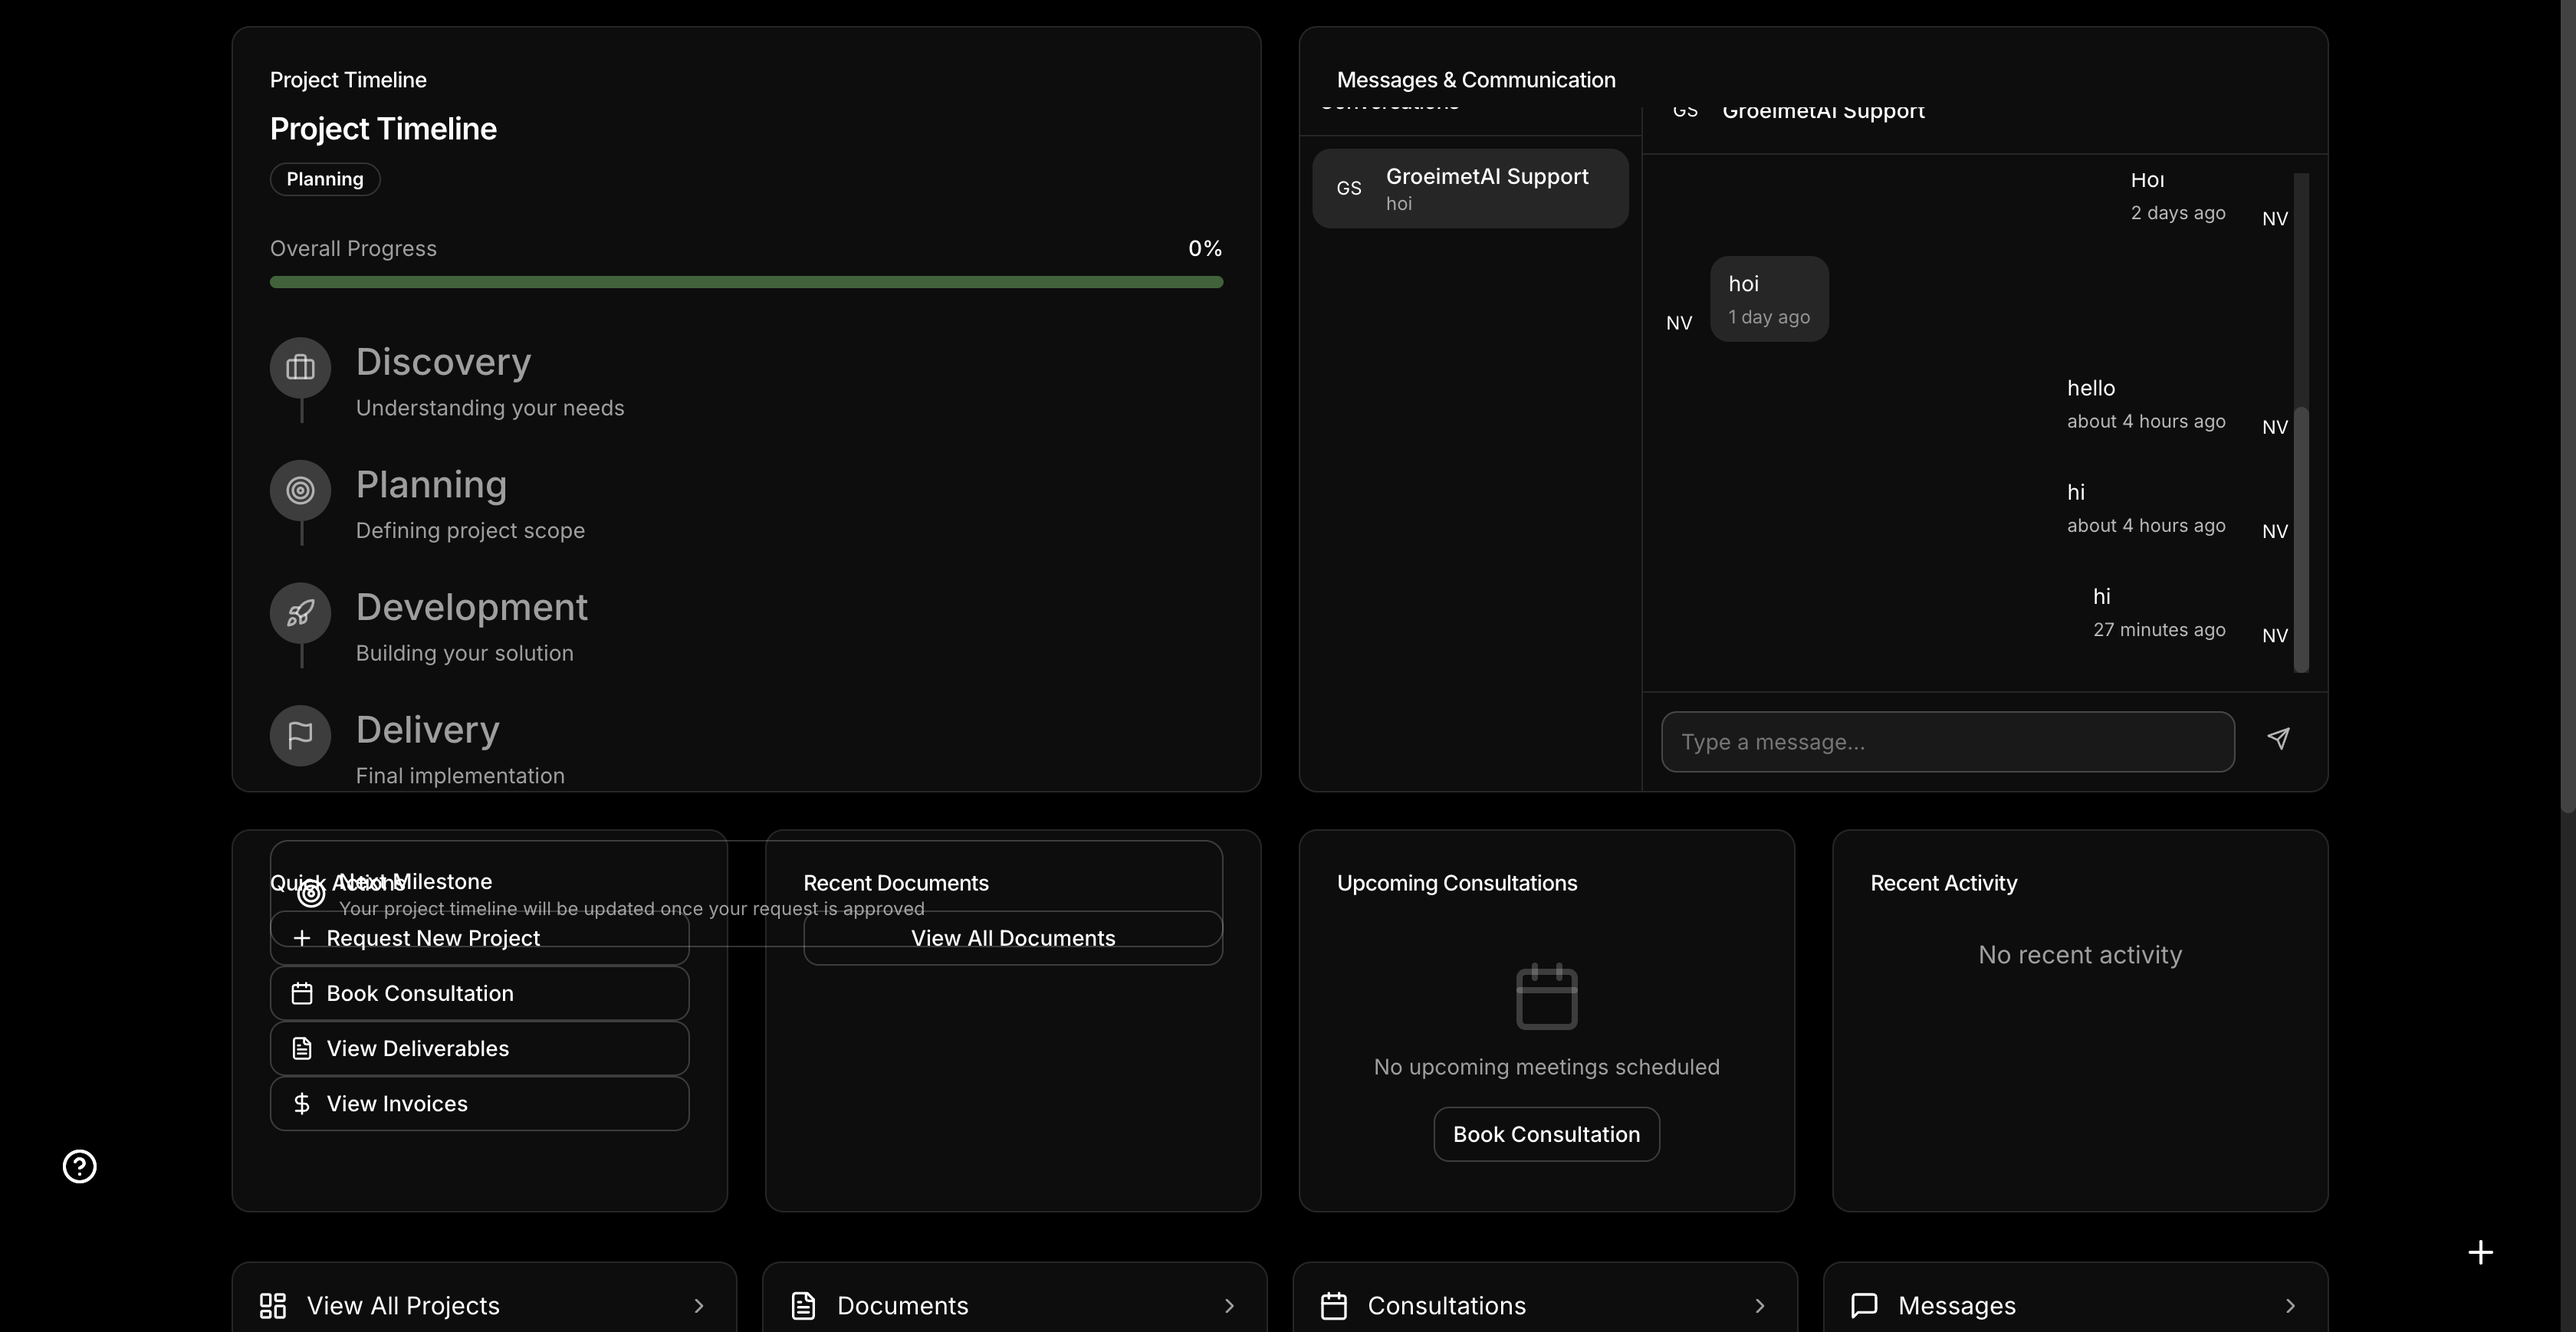
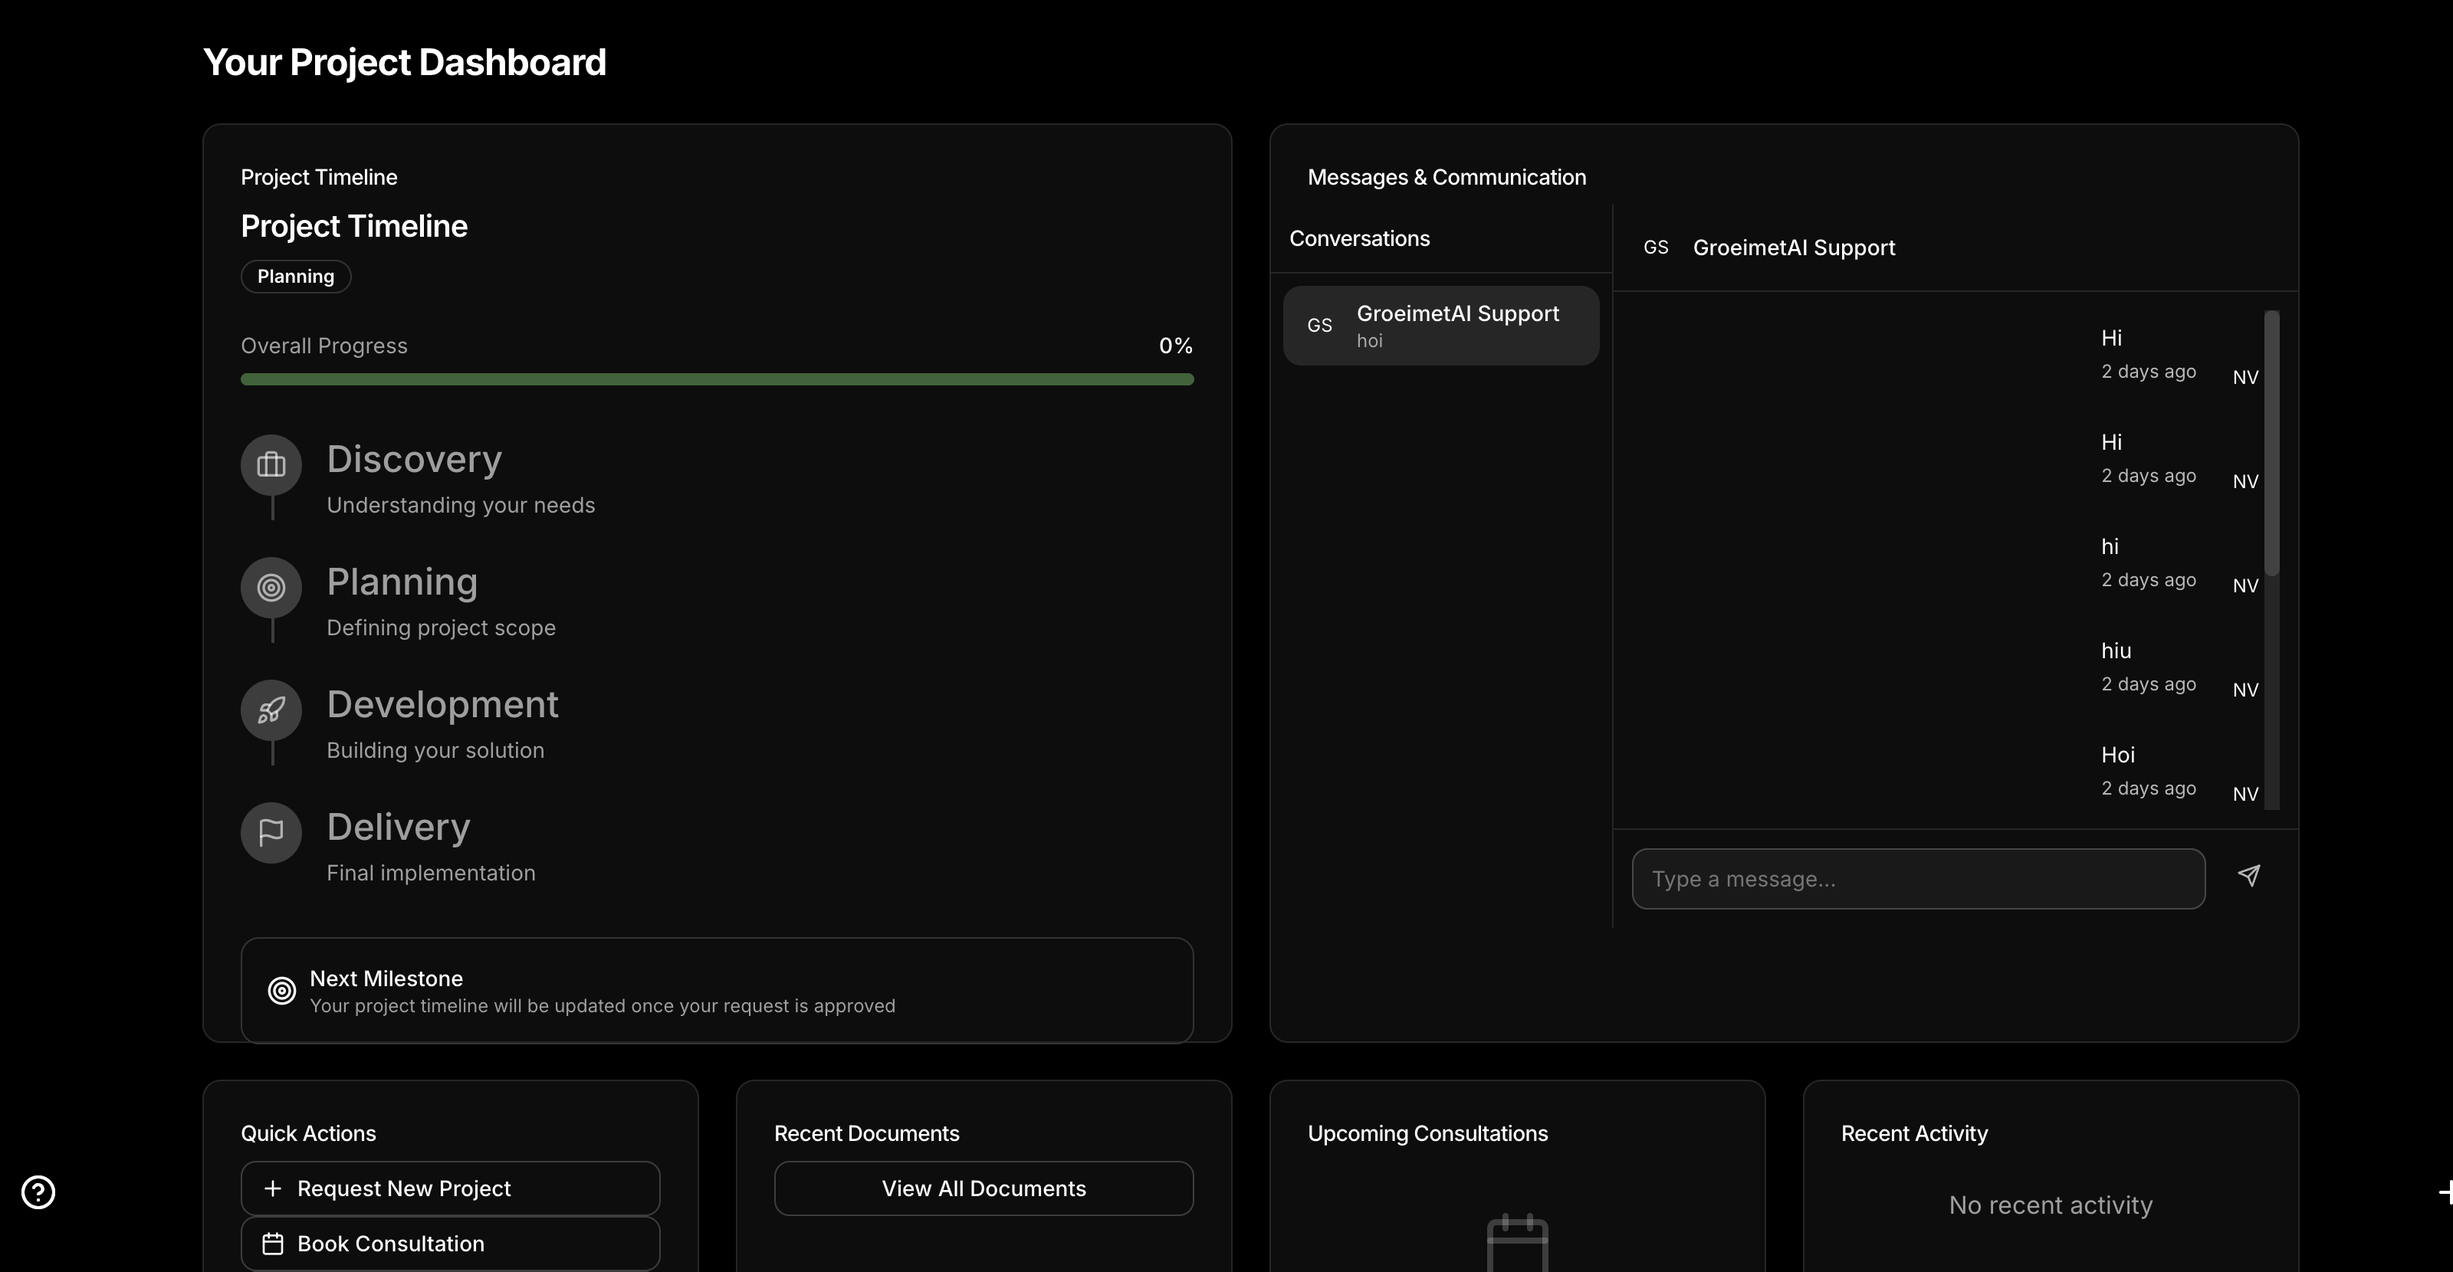
🎨 Optimize dashboard widget spacing
- Reduced spacing between timeline steps from space-y-6 to space-y-4
- Reduced gap before Next Milestone section from mt-8 to mt-4
- Removed maxHeight constraint from messages ScrollArea to use full widget height

diff --git a/src/components/dashboard/DashboardWidgets.tsx b/src/components/dashboard/DashboardWidgets.tsx
@@ -551,7 +551,7 @@ const MessagingWidget = ({
             </div>
 
             {/* Messages */}
-            <ScrollArea className="flex-1 p-3" style={{ maxHeight: '350px' }}>
+            <ScrollArea className="flex-1 p-3">
               <div className="space-y-3">
                 {isLoading && (
                   <div className="flex items-center justify-center py-8">
@@ -2113,7 +2113,7 @@ export default function DashboardWidgets() {
               </div>
 
               {/* Timeline Stages */}
-              <div className="flex-1 space-y-6 overflow-y-auto">
+              <div className="flex-1 space-y-4 overflow-y-auto">
                 {stages.map((stage: any, index: number) => {
                   const StageIcon = stageIcons[stage.icon as keyof typeof stageIcons] || Briefcase;
 
@@ -2180,7 +2180,7 @@ export default function DashboardWidgets() {
 
               {/* Next Milestone */}
               {(widgetData.milestone || !widgetData.timelineStages) && (
-                <div className="mt-8 p-4 bg-orange/10 rounded-lg border border-orange/20">
+                <div className="mt-4 p-4 bg-orange/10 rounded-lg border border-orange/20">
                   <div className="flex items-center space-x-2">
                     <Target className="w-5 h-5 text-orange" />
                     <div>
